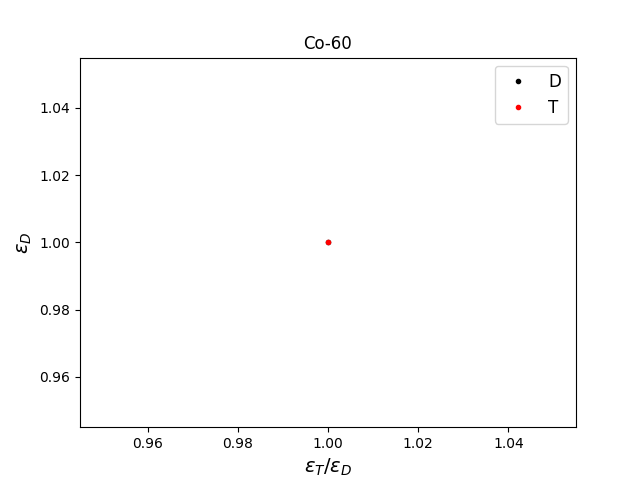
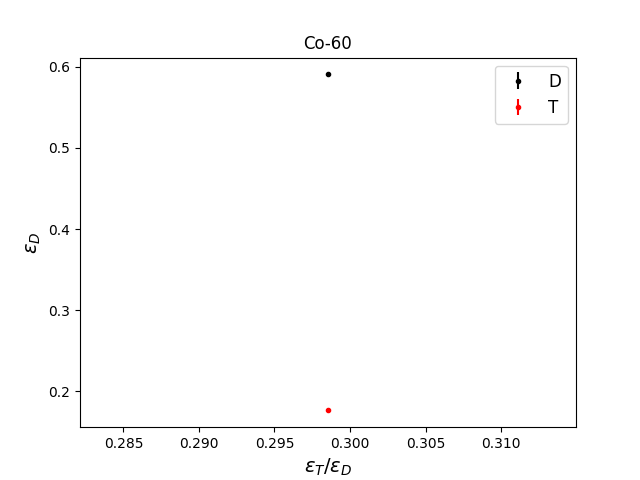
test with the execption on the 1st bin of the gamma matrix

diff --git a/MCTDCRcode/main_MCTDCR.py b/MCTDCRcode/main_MCTDCR.py
@@ -16,15 +16,15 @@ import scipy.stats as st
 
 
 ## INPUT OF THE MODEL
-N=5             # number of simulated decay (MC trials)
-Rad=["H-3"]       # list of radionuclides
+N=1             # number of simulated decay (MC trials)
+Rad=["Co-60"]       # list of radionuclides
 pmf_1=[1]       # relative abondance (pmf)
 kB = 1e-5         # Birks constant in cm/keV
 L=[1e-1]
 #L = np.logspace(-4,-2,10) # Free paramete in keV-1 (for Co-60)
 #L = np.logspace(-3,-1,10) # Free paramete in keV-1 (for Am-241)
 # L = np.logspace(-3,1,30) # Free paramete in keV-1 (for Sr-90)
-L = np.logspace(-2,1,50) # Free paramete in keV-1 (for H-3)
+# L = np.logspace(-2,1,50) # Free paramete in keV-1 (for H-3)
 TDCR_measure = 0.977784        # Measured TDCR value
 u_TDCR_measure = 0.000711      # standard uncertainty
 RHO = 0.96         #density of absorber (Toluene) g/cm3
@@ -159,7 +159,7 @@ for L_i in L: # loop on the free parameter values
              particle_vec[i] = "electron"
              energy_vec[i] = e_beta[index_beta_energy]
          if p == "gamma" or p == "x":
-             #index_recoil_electron_energy = tl.energie_dep_gamma(energy_vec[i])
+             energy_vec[i] = tl.energie_dep_gamma(energy_vec[i])
              particle_vec[i] = "electron" # false Compton scattering... to develop...!!!!!!!!!!!!!!
          if p[:4] == "Atom": # Electron capture
              energy_vec[i] = 0

diff --git a/MCTDCRcode/TDCR_model_lib.py b/MCTDCRcode/TDCR_model_lib.py
@@ -506,8 +506,9 @@ def energie_dep_gamma(e_inci,*,matrice1=Matrice1,matrice2=Matrice2,ed=Matrice_e)
             for j in range(taille_x):
                 matrice[i][j] = float(data[i][j])
     '''
-    inde = sampling(matrice[1:,index])
-    result = e[inde]
+    inde = sampling(matrice[3:,index])
+    if inde == 0:    result = 0
+    else:   result = e[inde+2]
     return result
 
 #'''
